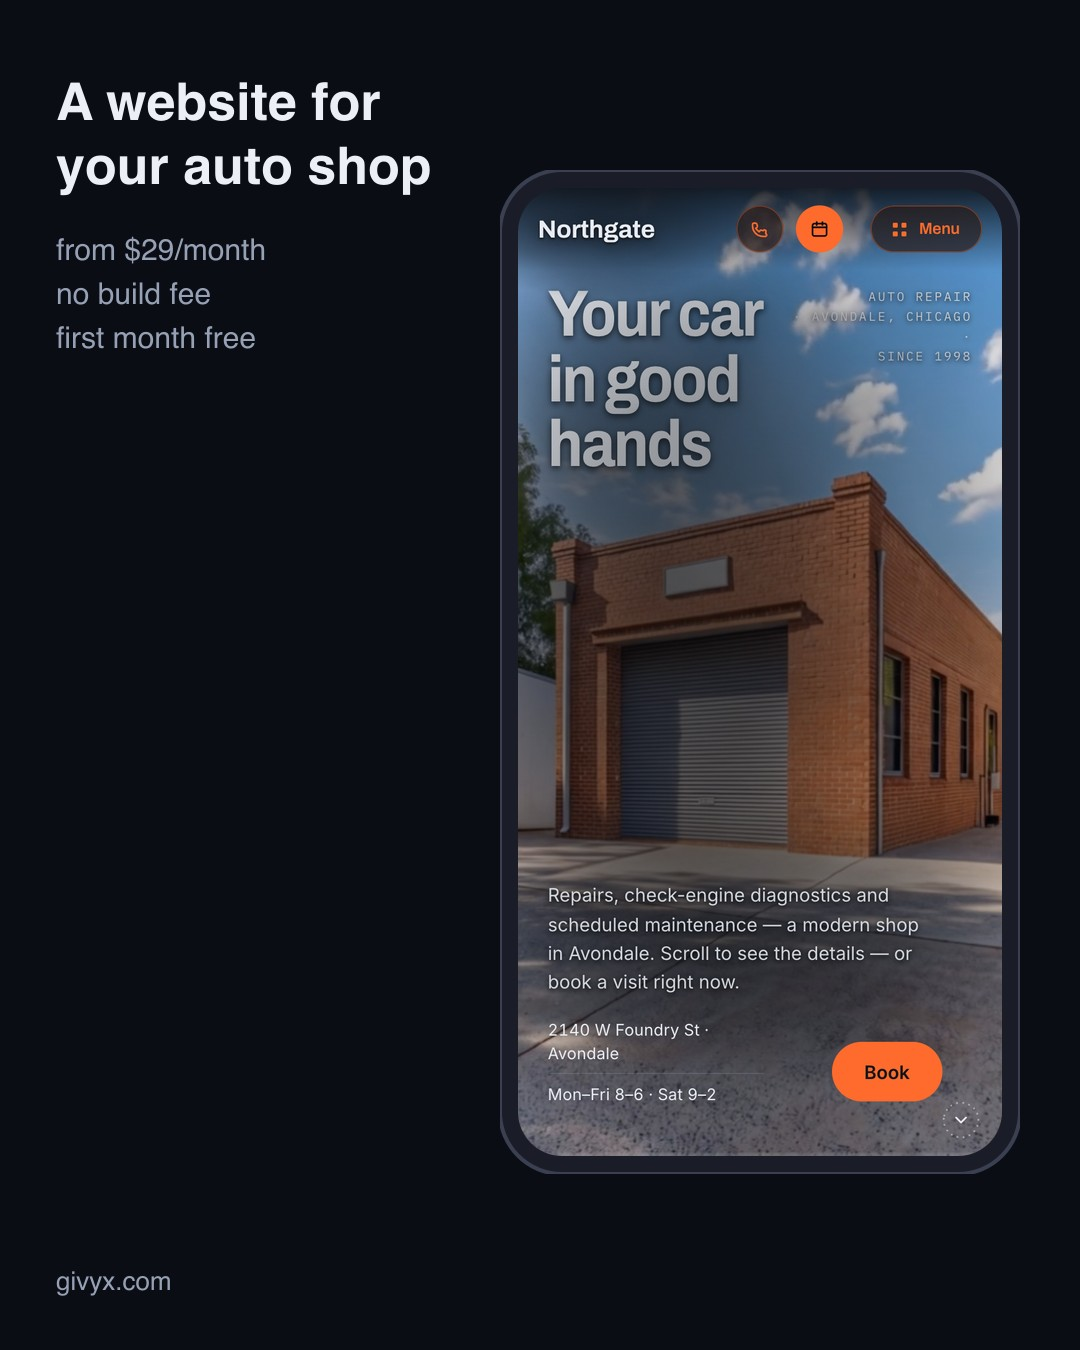
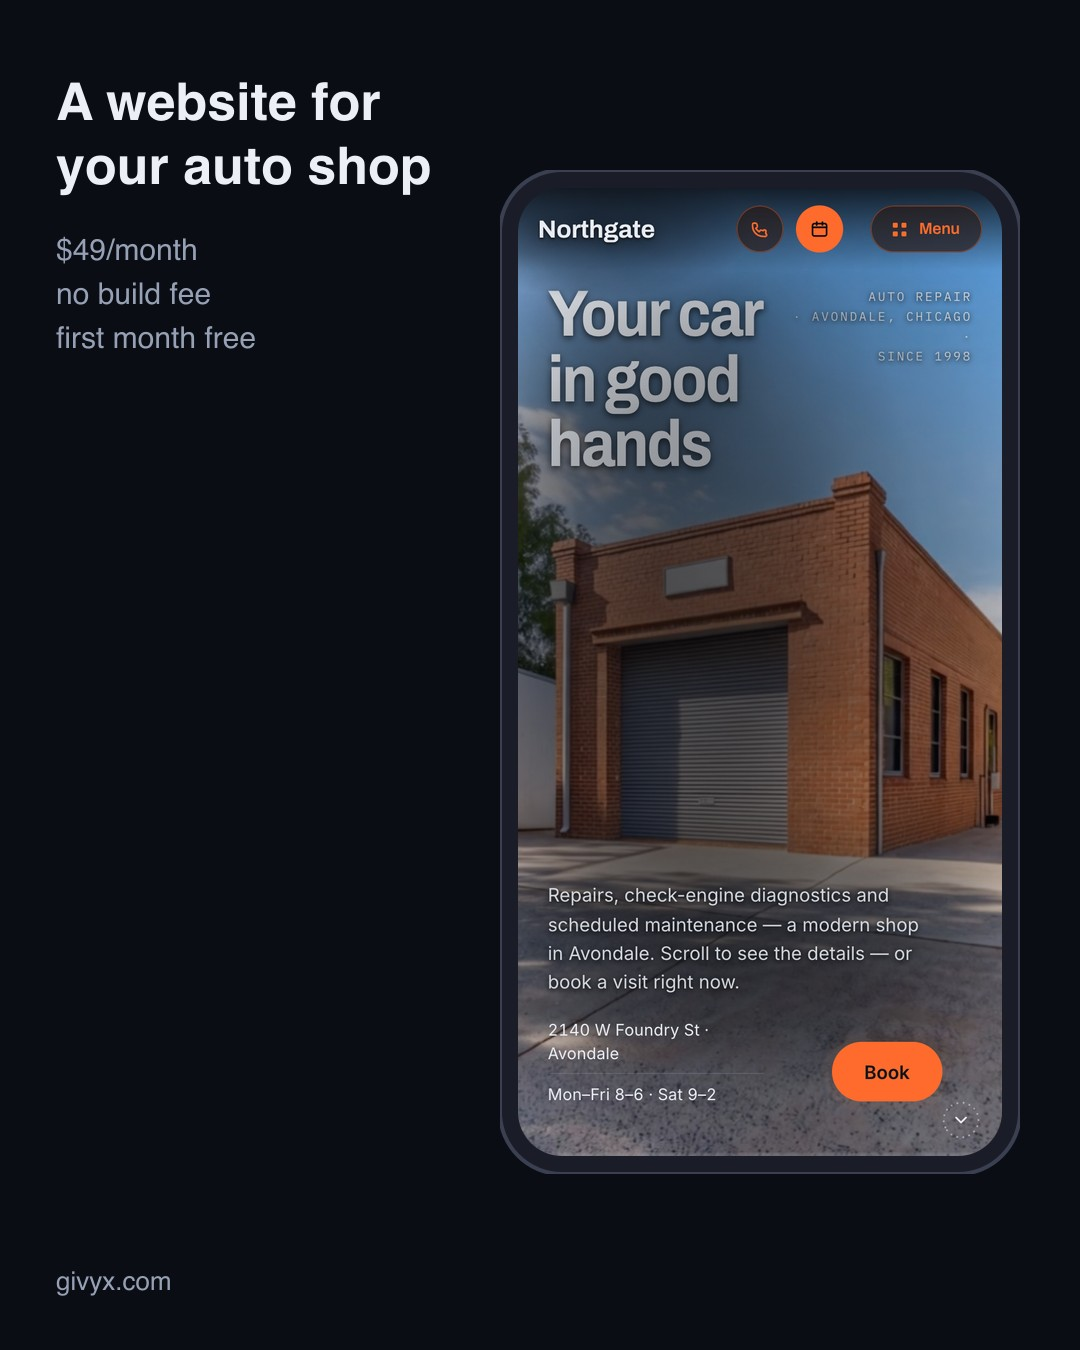
US price is $49/month everywhere: ad copy, EN creative, email builders, template, follow-ups, runbook

diff --git a/ops/tools/build-email-json.py b/ops/tools/build-email-json.py
@@ -45,7 +45,7 @@ def main():
             + btn(url, "See your site →")
             + p("It opens with a drive into the shop and a dive under the hood, then your services, online booking "
                 "and contact — all on the phone. Takes 30 seconds to look.")
-            + p("If you like it, it goes live on your own domain in 2 days. <strong>$60/month</strong>, maintenance and "
+            + p("If you like it, it goes live on your own domain in 2 days. <strong>$49/month</strong>, maintenance and "
                 "changes included — we keep the site current, you keep fixing cars. "
                 "<strong>No contract, cancel any time, first month free.</strong>")
             + p("Reply to this email or call — happy to adjust anything.")

diff --git a/ops/tools/build-email-v2.py b/ops/tools/build-email-v2.py
@@ -48,7 +48,7 @@ def main():
             + p(f"Stan here, from Givyx. Before writing I looked at how you work: {s['fakt']}. On the site: {s['na_stronie']}.")
             + p(s["dlaczego"])
             + p("<strong>The offer</strong>")
-            + ul(["<strong>$60/month</strong> — no contract, cancel any time",
+            + ul(["<strong>$49/month</strong> — no contract, cancel any time",
                   "<strong>Site built free</strong> and <strong>first month free</strong>",
                   "Live on your own domain in 2 days"])
             + p("<strong>Included</strong>")

diff --git a/guides/daily-batch-runbook.md b/guides/daily-batch-runbook.md
@@ -13,7 +13,7 @@ build agents in waves of 4. Stan's part: one review reply ("ok publish", "send a
 
 **Daily quota (Stan, 2026-09-15): 5 Polish + 5 US prospects, chosen very carefully for who can really
 buy — quality over count. If fewer than 5 qualify in a country, send fewer and say why.** Email rules:
-`outreach/email-1-template.md` v3 (no Google-rating clause, hook first, 249 zł / $60, built free + first
+`outreach/email-1-template.md` v3 (no Google-rating clause, hook first, 249 zł / $49, built free + first
 month free, benefits list, explicit contact line).
 
 ## 1. Pre-flight (15 min, before any research)
@@ -42,7 +42,7 @@ month free, benefits list, explicit contact line).
 
 ### 2a. Who can really buy — the buy score (Stan, 2026-09-15)
 
-Rank by **likelihood to pay 249 zł / $60 a month for a site from a stranger's email**, not by how well
+Rank by **likelihood to pay 249 zł / $49 a month for a site from a stranger's email**, not by how well
 they fit the demo. Score every candidate 0–10; **send only ≥ 7**; the pack must show the score and
 the evidence for each point. A pack full of shops with good sites and nothing to gain is a wasted day.
 
@@ -228,7 +228,7 @@ are gitignored).
 
 Codes: `<2–3 letters>-<yyyymmdd>-e1`, unique forever; register them in `prospects/pipeline.md`.
 E-mail = **v3** (`outreach/email-1-template.md`): hook first → button → who I am + `fakt` + "Na stronie
-jest …" → `dlaczego` → Oferta (249 zł / $60, built free, first month free) → W cenie → explicit contact
+jest …" → `dlaczego` → Oferta (249 zł / $49, built free, first month free) → W cenie → explicit contact
 (571 088 012 or reply). **Never a Google rating or review count in the e-mail.**
 ```
 # one spec per prospect: {"slug","name","to","code","lang":"pl|en","hook","fakt","na_stronie","dlaczego"}
@@ -267,7 +267,7 @@ Google disagree on). Never loop over recipients in one Bash call. Specs live in 
 - Replies land in `stan.zak.shade@gmail.com` (the Gmail connector reads it since 09-14); form notifications in both mailboxes.
 - The analytics curl with the admin token may be classifier-blocked ("PII") — ask Stan in-turn or have him add a Bash rule for `curl … api.givyx.com/api/analytics`; do not loop.
 - zsh word-splitting (see §3). Verify the API manifest after every clone, not the tool's "DONE".
-- Stan's e-mail rules are absolute: no Google/opinii, hook first, contact line, 249/$60 only (memory `givyx-email-v3-rules`).
+- Stan's e-mail rules are absolute: no Google/opinii, hook first, contact line, 249/$49 only (memory `givyx-email-v3-rules`).
 - **No published service list → hold, don't build** (batch 5: VRservis, Rock Street). A demo ring must show
   THEIR services; with none evidenced it would invent them. Put them on Stan's call list; swap in a reserve.
   Three evidenced services is enough for an honest 3-card ring (Auto Expert) — print no hours if none are published.

diff --git a/ads/2026-09-17-meta-lead-test.md b/ads/2026-09-17-meta-lead-test.md
@@ -67,10 +67,10 @@ built before the prospect pays. No delivery-time, uptime or result claims.
 
 **Primary text**
 > Running an auto shop with a website that's "coming soon" or from 2015?
-> I build websites for auto shops on a monthly plan — from $29/month, no build fee, first month free.
+> I build websites for auto shops on a monthly plan — $49/month, no build fee, first month free.
 > Leave your shop's name and phone number and I'll build a version of your site you can look at before you pay anything.
 
-**Headline:** Auto shop website from $29/month
+**Headline:** Auto shop website, $49/month
 **Description:** No contract · first month free · cancel any time
 **CTA button:** Get quote
 
@@ -79,16 +79,16 @@ built before the prospect pays. No delivery-time, uptime or result claims.
 **Primary text**
 > Drivers search Google and pick the shop that shows services, prices and a phone number up front.
 > If your shop only has a Facebook page, leave the name — I'll build a version of your website and
-> you'll see it on your phone before paying anything. From $29/month, no contract, first month free.
+> you'll see it on your phone before paying anything. $49/month, no contract, first month free.
 > One person + AI, not an agency.
 
 **Headline:** See your website before you pay
-**Description:** Auto repair, tires, detailing · from $29/month
+**Description:** Auto repair, tires, detailing · $49/month
 **CTA button:** Get quote
 
-Price note: the EN site says Starter $29 / Studio $49 / Scale $199 and the ad quotes the site. The
-US emails pitch $60/month. One of the two has to change before a US lead reads $29 and hears $60 on
-the call — Stan's decision, flagged 2026-09-17.
+Price: **$49/month (Studio) everywhere in English** — Stan's decision 2026-09-17. The ad, the EN
+emails (builder + template + follow-ups updated the same day) and the site's Studio price agree.
+The ad quotes $49, not "from $29", so the call never has to walk a price up.
 
 ## Instant form PL (one form, both PL ads)
 

diff --git a/outreach/email-1-template.md b/outreach/email-1-template.md
@@ -108,7 +108,7 @@ phone, email — never in the body), `replyTo: info@givyx.com`, unique `utm_cont
 > It opens with a drive into the shop and a dive under the hood, then your services, online
 > booking and contact — all on the phone. Takes 30 seconds to look.
 >
-> If you like it, it goes live on your own domain in 2 days. **$60/month**, maintenance and changes
+> If you like it, it goes live on your own domain in 2 days. **$49/month**, maintenance and changes
 > included — we keep the site current, you keep fixing cars. **No contract, cancel any time, first month free.**
 >
 > Reply to this email or call — happy to adjust anything.

diff --git a/outreach/2026-09-14-followup-sequence.md b/outreach/2026-09-14-followup-sequence.md
@@ -86,7 +86,7 @@ Subject: `Your site is waiting — {{slug}}.givyx.com`
 > **{{slug}}.givyx.com** — your services, your phone, your reviews, on one fast page.
 >
 > It stays up through the end of the month. If you like it, it goes live on your own domain in
-> 2 days. $60/month, **no contract, cancel any time**{{B: , first month free}}. We keep it updated;
+> 2 days. $49/month, **no contract, cancel any time**{{B: , first month free}}. We keep it updated;
 > you keep fixing cars.
 >
 > Takes 30 seconds to look. A one-word "yes" or "no" reply is all I need.
